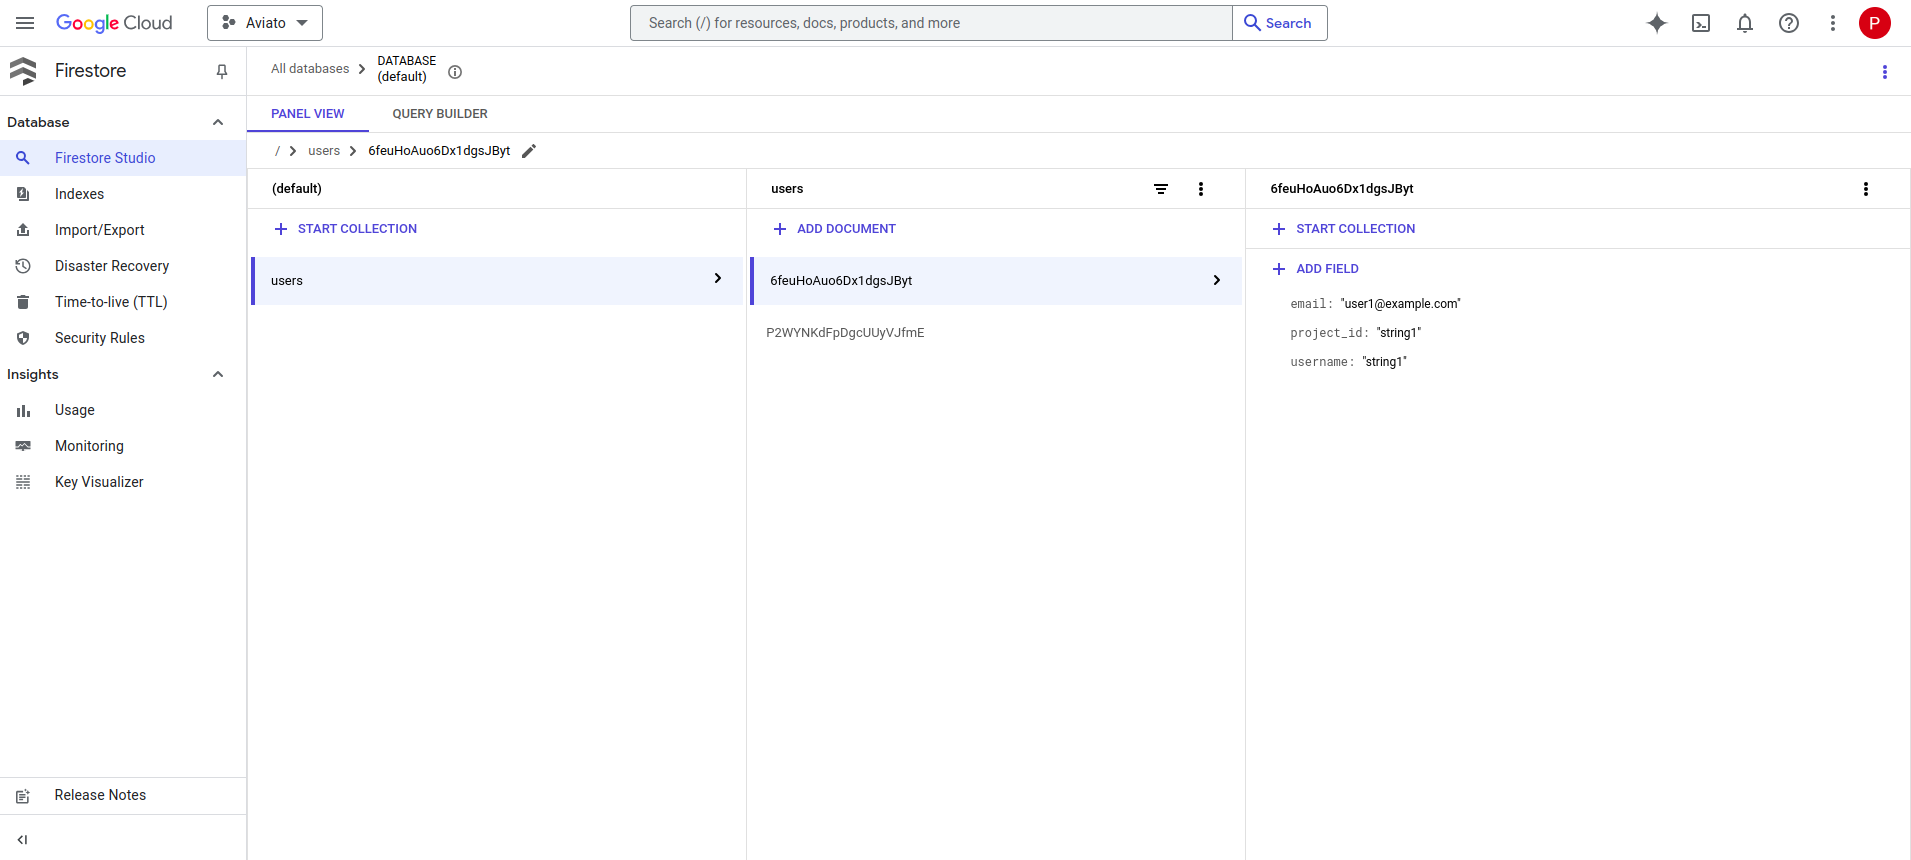
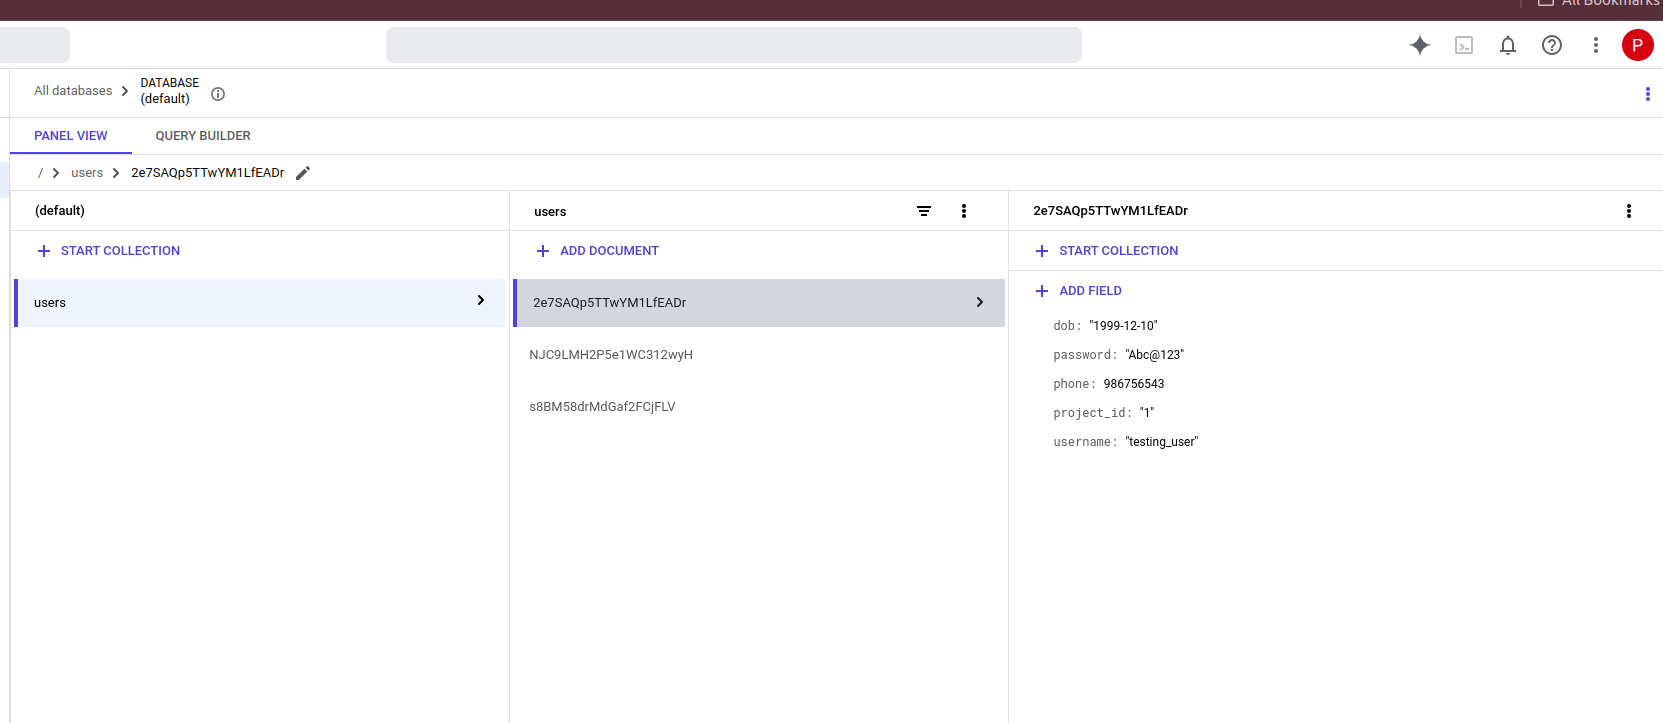
Updated ths code

diff --git a/app/routers/endpoints.py b/app/routers/endpoints.py
@@ -1,41 +1,63 @@
 import os
-
-from fastapi import APIRouter, HTTPException
-from app.database.models import User, UpdateUser
-from app.helpers.firestore_utils import FirestoreService
 from app.helpers.email_utils import send_email
+from fastapi import APIRouter, HTTPException
+from typing import  Optional, Dict
+from app.helpers.firestore_utils import FirestoreService
 
 router = APIRouter()
 firestore_service = FirestoreService()
 
 
-# Create user
-@router.post("/add_users", response_model=User)
-def add_user(user: User):
-    # Convert the Pydantic model to a dictionary for Firestore insertion
-    user_data = user.dict()  # This converts the Pydantic model to a dictionary
+# Add User Endpoint
+@router.post("/add_users")
+def add_user(user_data: Dict):
+    """
+    Create a new user with arbitrary data.
+    """
+    if "project_id" not in user_data:
+        raise HTTPException(status_code=400, detail="Project ID is required.")
     return firestore_service.create_user(user_data)
 
-
-# Get all users
+# Get All Users Endpoint
 @router.get("/get_users")
-def get_users():
+def get_users(project_id: Optional[str] = None):
+    """
+    Retrieve all users or filter by project_id.
+    """
+    if project_id:
+        return firestore_service.get_users_by_project(project_id)
     return firestore_service.get_users()
 
-
-# Update user details
+# Update User Endpoint
 @router.patch("/update_users")
-def update_user(user: UpdateUser):
-    if not user.id:
+def update_user(user_id: str, user_data: Dict):
+    """
+    Update user details with arbitrary data.
+    """
+    if not user_id:
         raise HTTPException(status_code=400, detail="User ID is required for updating.")
-    return firestore_service.update_user(user.id, user.dict())
+    if "project_id" in user_data:
+        raise HTTPException(
+            status_code=400, detail="Project ID cannot be updated directly."
+        )
+    return firestore_service.update_user(user_id, user_data)
 
-
-# Delete user by ID
+# Delete User Endpoint
 @router.delete("/delete_users")
-def delete_user(user_id: str):
-    return firestore_service.delete_user(user_id)
+def delete_user(user_id: str, project_id: Optional[str] = None):
+    """
+    Delete a user by ID. Optionally ensure they belong to a specific project.
+    """
+    user = firestore_service.get_user_by_id(user_id)
+    if not user:
+        raise HTTPException(status_code=404, detail="User not found.")
 
+    if project_id and user.get("project_id") != project_id:
+        raise HTTPException(
+            status_code=403, detail="User does not belong to the specified project."
+        )
+
+    return firestore_service.delete_user(user_id)
 
 @router.get("/send-invite")
 def send_invite():

diff --git a/app/helpers/firestore_utils.py b/app/helpers/firestore_utils.py
@@ -1,22 +1,53 @@
 from app.database.database import db
-from app.database.models import User
+from typing import  Dict
 
 class FirestoreService:
-    def create_user(self, user_data):
+    def create_user(self, user_data: Dict):
+        """
+        Create a user in the Firestore 'users' collection.
+        """
         user_ref = db.collection("users").add(user_data)
-        return {"id": user_ref[1].id, **user_data}  # Returning the generated ID
+        return {"id": user_ref[1].id, **user_data}
 
     def get_users(self):
+        """
+        Retrieve all users from the Firestore 'users' collection.
+        """
         users_ref = db.collection("users")
         docs = users_ref.stream()
         return [{"id": doc.id, **doc.to_dict()} for doc in docs]
 
-    def update_user(self, user_id, user_data):
+    def get_users_by_project(self, project_id: str):
+        """
+        Retrieve all users associated with a specific project.
+        """
+        users_ref = db.collection("users").where("project_id", "==", project_id)
+        docs = users_ref.stream()
+        return [{"id": doc.id, **doc.to_dict()} for doc in docs]
+
+    def get_user_by_id(self, user_id: str):
+        """
+        Retrieve a single user by their unique Firestore document ID.
+        """
+        user_ref = db.collection("users").document(user_id)
+        doc = user_ref.get()
+        if doc.exists:
+            return {"id": doc.id, **doc.to_dict()}
+        return None
+
+    def update_user(self, user_id: str, user_data: Dict):
+        """
+        Update a user's details in Firestore.
+        """
         user_ref = db.collection("users").document(user_id)
         user_ref.update(user_data)
-        return {"id": user_id, **user_data}
+        updated_user = user_ref.get()
+        return {"id": user_id, **updated_user.to_dict()}
 
-    def delete_user(self, user_id):
+    def delete_user(self, user_id: str):
+        """
+        Delete a user by their Firestore document ID.
+        """
         user_ref = db.collection("users").document(user_id)
         user_ref.delete()
-        return {"message": f"User with id {user_id} deleted successfully."}
+        return {"message": f"User with ID {user_id} deleted successfully."}

diff --git a/README.md b/README.md
@@ -1,13 +1,37 @@
 # Aviato Users Management API
 
-This FastAPI application provides endpoints for managing users, including creating, updating, retrieving, and deleting users. Additionally, it offers an endpoint for sending an email invitation with a link to the API documentation and a GitHub repository.
+## **User Management**:
+- Create, update, retrieve, and delete user data dynamically without relying on predefined models.
+- Data is stored and retrieved in real-time using **Google Firestore**, offering high scalability and performance.
+- Dynamic structure allows storing flexible user data tailored to specific project needs.
+
+---
+
+## **Dynamic API Structure**:
+- The endpoints adapt to the data being passed, enabling support for dynamic fields and custom data structures.
+- Built to handle various use cases without requiring rigid database schema definitions.
+
+---
+
+## **Email Invitation**:
+- Send customizable email invitations with a professional HTML template.
+- Emails include:
+  - A link to the API documentation hosted on **ReDoc**.
+  - A link to the **GitHub repository** for accessing the source code.
+- Supports multiple recipients and attachments dynamically, making it ideal for sharing documentation or project details.
+
+---
+
+## **Cloud Integration**:
+- Deployed on an **AWS EC2 instance** with reverse proxy setup for efficient port forwarding.
+- Powered by **Google Firestore** for storing and querying user data seamlessly.
+
 
 ## Endpoints
 
 ### 1. **Create User**
 - **URL**: `/add_users`
 - **Method**: `POST`
-- **Request Body**: `User` (Pydantic Model)
 
 Creates a new user in the Firestore database.
 
